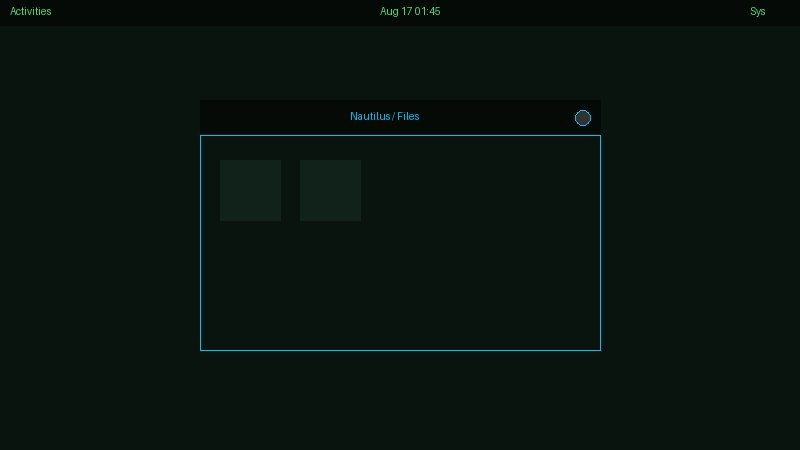
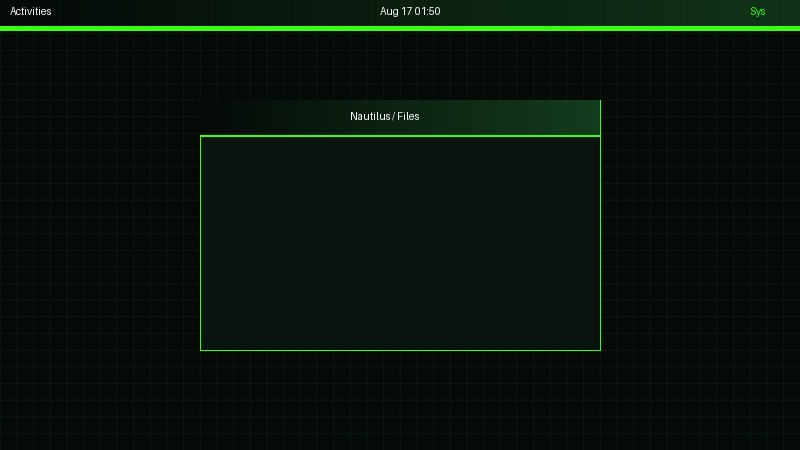
add readme.md

Changed region(s): [[0.0, 0.0, 1.0, 0.0933], [0.25, 0.2178, 0.7812, 0.8089]]

diff --git a/README.md b/README.md
@@ -1,42 +1,30 @@
-# Halo Cortana - Universal Desktop Theme Pack
+# Halo Cortana (Neon Advanced Edition) - Theme Pack
 
-Tema desktop bernuansa sci-fi gelap yang terinspirasi dari antarmuka UNSC, Master Chief (Armor Green), dan AI Cortana (Holo Blue). Tema ini dikonfigurasi untuk bekerja dengan dua ekosistem Desktop Linux terbesar (GNOME dan KDE Plasma 6) sekaligus!
+Versi mutakhir dari tema sci-fi dengan **Gradasi Neon Hijau (`#39ff14`)** yang menyala. 
+Bagian Titlebar (GTK/Libadwaita) dan Top Bar (GNOME Shell) dirancang memiliki transisi warna gradien gelap ke hijau menyala dengan efek cahaya *Glow (Box-Shadow)*, memberikan tampilan terminal/sistem AI canggih.
 
-## Preview (Pratinjau)
-
-### GNOME (GTK4 / Libadwaita & GNOME Shell)
+## Preview Animasi & Gradasi Neon
+### GNOME (GTK4 / Libadwaita)
 ![GNOME Preview](preview_gnome.jpg)
 
-### KDE Plasma 6 (Aurorae & Kvantum)
+### KDE Plasma 6 
 ![KDE Preview](preview_kde.jpg)
 
 ---
 
-## Fitur & Dukungan
-*   **GTK 3 & GTK 4 (Libadwaita)**: Mengubah warna jendela dan tombol lewat konfigurasi CSS. (Force Dark-Mode included).
-*   **GNOME Shell**: Kustomisasi panel atas dan menu popup GNOME.
-*   **Ikon Otomatis**: Script sudah dikonfigurasi untuk mengaktifkan set ikon `halo-universe`. *(Pastikan Anda sudah menyalin folder ikon halo-universe ke `~/.icons/`)*.
-*   **KDE Plasma 6 (Global Theme)**: Meta package untuk integrasi penuh di Plasma 6.
-*   **KDE Aurorae**: Dekorasi frame / jendela aplikasi di KDE Plasma.
-*   **Kvantum**: Mesin tema Qt berbasis SVG/config untuk transparansi dan styling aplikasi Qt.
-*   **Background Integration**: Otomatis menyalin `background.png` ke folder Wallpaper.
-
-## Perbaikan (Bug Fixes) di Versi Ini
-1. Memperbaiki *hard-coded bash variable bugs* pada script instalasi.
-2. Memastikan konfigurasi GTK4 disalin (overwrite) dengan aman menggunakan flag `-rf`.
-3. Menambahkan trigger otomatis GNOME `color-scheme 'prefer-dark'` untuk memaksa aplikasi Libadwaita yang bandel membaca *override* warna.
-4. Menambahkan perintah otomatis untuk beralih ke tema ikon `halo-universe`.
+## Fitur Unggulan Versi Ini:
+*   **Linear Gradients:** Top bar dan window header kini tidak lagi solid/datar. Warnanya memudar *(fade)* dari *Deep Dark Green* ke *Vibrant Green*.
+*   **Glow Effects:** Penambahan atribut `box-shadow` CSS yang mensimulasikan pendaran cahaya (neon glow) pada garis bawah jendela dan tombol saat di-hover.
+*   **High Contrast Fonts:** Warna tulisan utama sedikit diputihkan agar lebih mudah dibaca di atas panel gradasi neon.
+*   **Fully Libadwaita Compliant:** GTK4 akan membaca gradasi neon ini secara bawaan (native).
 
 ## Cara Instalasi
-**Penting:** Script ini dipasang pada direktori local pengguna (User Space), sehingga Anda **tidak membutuhkan `sudo` / akses Root**.
+*(Tidak butuh akses root/sudo)*
 
 1. Ekstrak file zip ini.
 2. Buka Terminal di folder hasil ekstraksi.
-3. Jalankan script instalasi:
+3. Jalankan perintah instalasi:
    ```bash
    ./install.sh
    ```
-
-## Konfigurasi Lanjutan Setelah Instalasi
-*   **Jika menggunakan GNOME:** Seharusnya sistem akan langsung berubah. Jika GNOME Shell / Top Panel belum berubah, pastikan ekstensi "User Themes" sudah aktif, lalu lakukan **Log Out & Log In**.
-*   **Jika menggunakan KDE Plasma 6:** Sistem Plasma memerlukan aktivasi manual setelah tema disalin. Buka **System Settings** -> **Global Theme** dan pilih `Halo-Cortana`. Jangan lupa buka **Kvantum Manager** dan setel `Halo-Cortana` sebagai tema aktif.
+4. **Wajib:** Lakukan *Log Out* dan *Log In* ulang setelah menginstal agar seluruh cache tema lama dibersihkan dan efek *glow* dapat me-render dengan sempurna.
